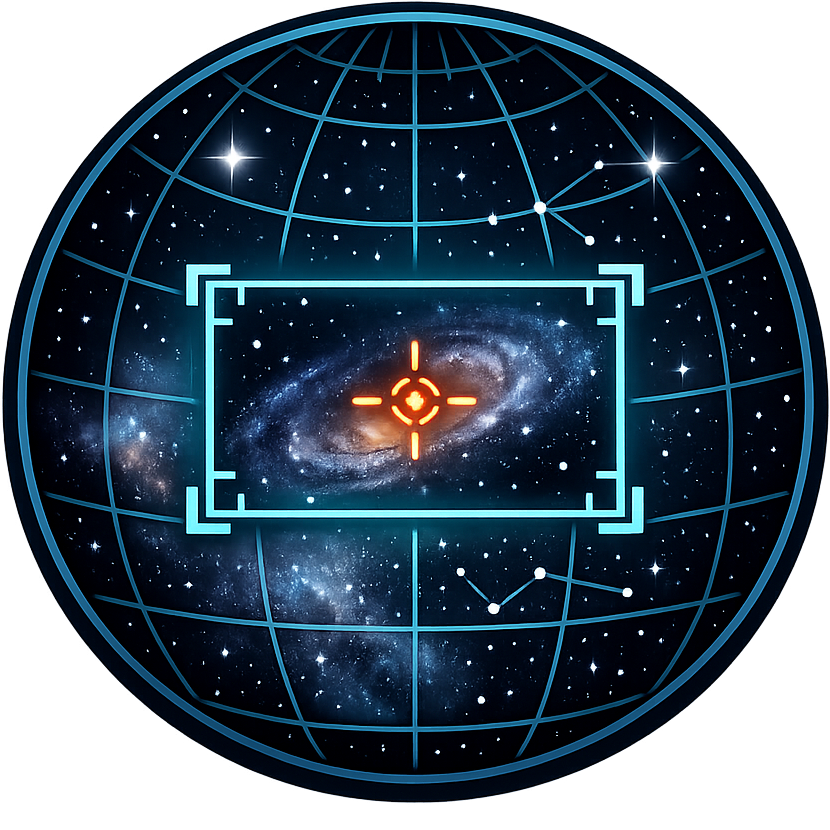
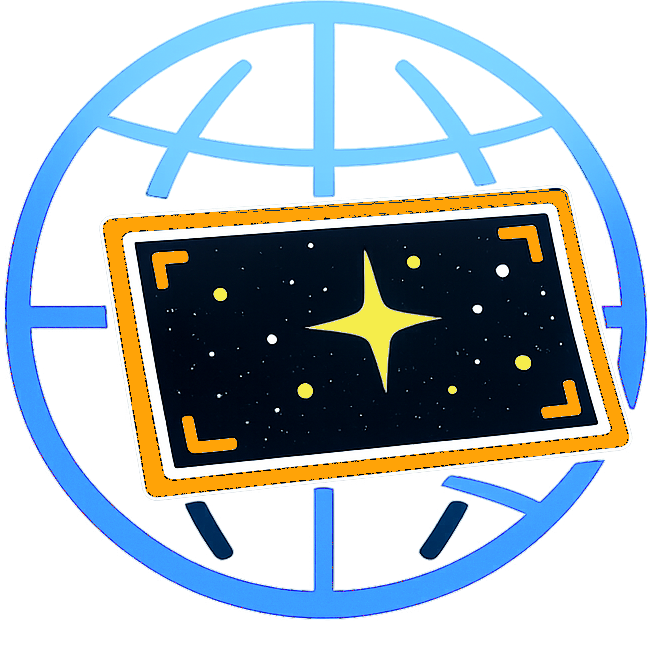
sky atlas

diff --git a/src/setiastro/saspro/atlas_dialog.py b/src/setiastro/saspro/atlas_dialog.py
@@ -317,13 +317,21 @@ class AtlasDialog(QDialog):
         self._status_label.setVisible(False)
         layout.addWidget(self._status_label)
 
+        self._no_wcs_label = QLabel("")
+        self._no_wcs_label.setStyleSheet("color: #cc8844; font-size: 11px;")
+        self._no_wcs_label.setWordWrap(True)
+        self._no_wcs_label.setVisible(False)
+        layout.addWidget(self._no_wcs_label)
         # Buttons
-        btn_row = QHBoxLayout()
         self._atlas_btn = QPushButton(self.tr("View Atlas"))
-        self._atlas_btn.setFlat(True)
-        self._atlas_btn.setStyleSheet("color: #7a9fff; font-size: 11px;")
+        self._atlas_btn.setStyleSheet(
+            "QPushButton { background: #1a2a4a; color: #7a9fff; padding: 6px 18px; "
+            "border-radius: 4px; border: 1px solid #3355aa; }"
+            "QPushButton:hover { background: #223366; border-color: #5577cc; }"
+        )
         self._atlas_btn.clicked.connect(self._open_atlas_page)
         btn_row.addWidget(self._atlas_btn)
+
         btn_row.addStretch()
         self._cancel_btn = QPushButton(self.tr("Cancel"))
         self._cancel_btn.clicked.connect(self.close)
@@ -338,6 +346,23 @@ class AtlasDialog(QDialog):
         self._share_btn.clicked.connect(self._on_share)
         btn_row.addWidget(self._share_btn)
         layout.addLayout(btn_row)
+        self._update_share_state()
+
+    def _update_share_state(self):
+        image_data = getattr(self._doc, "image", None) if self._doc else None
+        wcs = self._doc.metadata.get("wcs") if (self._doc and hasattr(self._doc, "metadata")) else None
+
+        if image_data is None or wcs is None:
+            self._share_btn.setEnabled(False)
+            if self._doc is None or image_data is None:
+                reason = "Open an image in SASpro to submit to the atlas."
+            else:
+                reason = "Plate solve this image first to enable submission."
+            self._no_wcs_label.setText(self.tr(reason))
+            self._no_wcs_label.setVisible(True)
+        else:
+            self._share_btn.setEnabled(True)
+            self._no_wcs_label.setVisible(False)
 
     def _on_desc_changed(self):
         text = self._desc_edit.toPlainText()
@@ -369,23 +394,12 @@ class AtlasDialog(QDialog):
             return
 
         image_data = getattr(self._doc, "image", None)
-        wcs        = self._doc.metadata.get("wcs") if hasattr(self._doc, "metadata") else None
-
-        if image_data is None:
-            QMessageBox.warning(self, self.tr("No Image"),
-                                self.tr("No image data found in the active document."))
-            return
-        if wcs is None:
-            QMessageBox.warning(self, self.tr("No WCS"),
-                                self.tr("No WCS solution found. Plate solve the image first."))
-            return
-
+        wcs        = self._doc.metadata.get("wcs")
         filter_name = self._filter_combo.currentText()
         object_name = self._object_edit.text().strip()
         description = self._desc_edit.toPlainText().strip()
         link        = self._link_edit.text().strip()
 
-        # Basic URL validation
         if link and not link.startswith(("http://", "https://")):
             link = "https://" + link
 
@@ -396,7 +410,7 @@ class AtlasDialog(QDialog):
         self._status_label.setText(self.tr("Starting upload…"))
 
         self._worker = _UploadWorker(image_data, wcs, filter_name,
-                                     object_name, description, link)
+                                    object_name, description, link)
         self._worker.progress.connect(self._on_progress)
         self._worker.finished.connect(self._on_finished)
         self._worker.error.connect(self._on_error)

diff --git a/src/setiastro/saspro/gui/main_window.py b/src/setiastro/saspro/gui/main_window.py
@@ -5344,13 +5344,6 @@ class AstroSuiteProMainWindow(
 
     def _open_atlas(self):
         doc = self._active_doc()
-        if not self._doc_has_wcs(doc):
-            QMessageBox.information(
-                self,
-                self.tr("Seti Astro Atlas"),
-                self.tr("Active image has no astrometric solution (WCS). Plate solve first.")
-            )
-            return
         from setiastro.saspro.atlas_dialog import AtlasDialog
         dlg = AtlasDialog(doc=doc, settings=self.settings, parent=self)
         dlg.setWindowFlag(Qt.WindowType.Window, True)